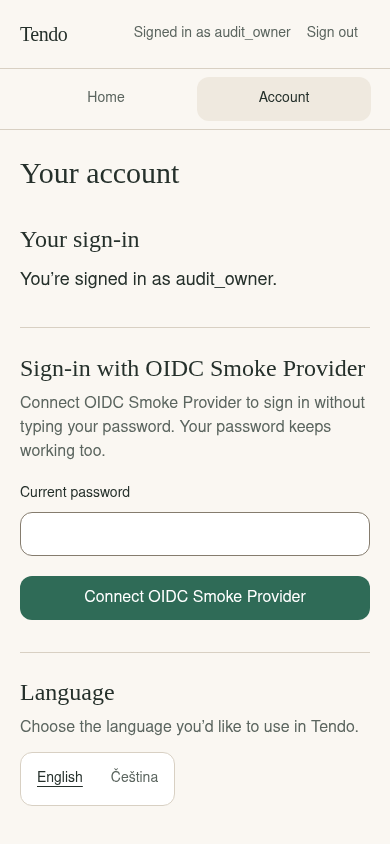
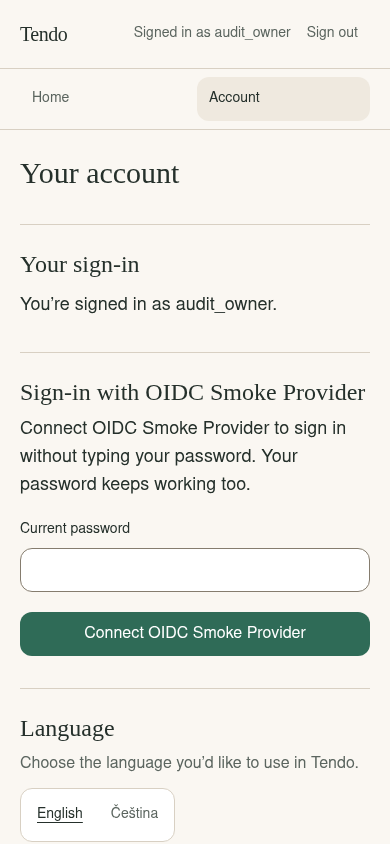
fix(v3-13): single-column sign-in panel and aligned account sections

diff --git a/frontend/src/features/auth/LoginScreen.tsx b/frontend/src/features/auth/LoginScreen.tsx
@@ -46,14 +46,14 @@ export function LoginScreen({ onSignedIn, notice }: { onSignedIn: (session: Sess
   const { loginName, setLoginName, password, setPassword, pending, error, oidcPending, oidcError } = actions;
 
   return (
-    <section className="settle mx-auto w-full max-w-3xl">
-      <div className="max-w-2xl">
+    <section className="settle mx-auto w-full max-w-md lg:mt-10">
+      <div className="text-center">
         <Heading className="font-display text-display leading-tight">{t('login.welcome')}</Heading>
         <p className="mt-3 text-lg text-muted">{t('login.subtitle')}</p>
       </div>
-      <div className="mt-8 rounded-2xl border border-line bg-raised p-5 sm:p-8">
+      <div className="mt-8 w-full rounded-2xl border border-line bg-raised p-5 sm:p-8">
         <NoticeRegion message={notice} className={notice ? 'mb-6' : undefined} />
-        <form aria-label={t('login.heading')} onSubmit={(event) => void actions.submit(event)} className="grid gap-5 sm:grid-cols-2" noValidate>
+        <form aria-label={t('login.heading')} onSubmit={(event) => void actions.submit(event)} className="grid gap-5" noValidate>
           <div className="space-y-2">
             <Label htmlFor="login">{t('login.login')}</Label>
             <Input
@@ -83,10 +83,10 @@ export function LoginScreen({ onSignedIn, notice }: { onSignedIn: (session: Sess
               aria-describedby={error ? 'login-error' : undefined}
             />
           </div>
-          <div id="login-error" role="alert" className="text-base text-danger sm:col-span-2">
+          <div id="login-error" role="alert" className="text-base text-danger">
             {error ? t(errorKeys[error]) : oidcError ? t(startErrorKeys[oidcError], { provider: provider ?? '' }) : null}
           </div>
-          <Button type="submit" disabled={pending || oidcPending} className="w-full sm:w-auto">
+          <Button type="submit" disabled={pending || oidcPending} className="w-full">
             {pending ? t('login.submitting') : t('login.submit')}
           </Button>
         </form>

diff --git a/frontend/e2e/audit/auth.ts b/frontend/e2e/audit/auth.ts
@@ -93,6 +93,10 @@ export async function captureAuth(page: Page, browser: Browser, dir: string, cap
     await signedOut.route('**/api/v1/auth/oidc', route => route.fulfill({ status: 200, contentType: 'application/json', body: JSON.stringify({ enabled: true, displayName: 'OIDC Smoke Provider' }) }));
     await signedOut.goto('/login');
     await expect(signedOut.getByRole('heading', { level: 1, name: en['login.welcome'] })).toBeVisible();
+    if (width >= 768) {
+      await expect(signedOut.locator('main section')).toHaveCSS('max-width', '448px');
+      await expect(signedOut.getByRole('form', { name: en['login.heading'] }).locator('button[type="submit"]')).toHaveCSS('width', '382px');
+    }
     await expectNoAxeViolations(signedOut, `auth-login-${width}`);
     await shot(signedOut, dir, `auth-login-en-${width}.png`, capture, width);
     if (width === 390 || width === 1440) {
@@ -172,6 +176,8 @@ export async function captureAuth(page: Page, browser: Browser, dir: string, cap
     const page = accountPage;
     await expect(page.getByRole('heading', { level: 1, name: en['account.title'] })).toBeVisible();
     await expect(page.getByLabel(en['account.oidc.password'], { exact: true })).toBeVisible();
+    await expect(page.getByRole('main').locator('section[aria-labelledby="account-identity-heading"]')).toHaveClass(/border-t/);
+    await expect(page.getByRole('main').locator('section[aria-labelledby="account-language-heading"]')).toHaveClass(/border-t/);
     await expectNoAxeViolations(page, `auth-account-unlinked-${width}`);
     await shot(page, dir, `auth-account-unlinked-en-${width}.png`, capture, width);
     await page.evaluate(() => document.documentElement.setAttribute('data-theme', 'dark'));

diff --git a/frontend/src/features/auth/AccountOidcSectionView.tsx b/frontend/src/features/auth/AccountOidcSectionView.tsx
@@ -22,19 +22,19 @@ export function AccountOidcSectionView({
         </Button>
       ) : null}
       {section.kind === 'linked' ? (
-        <section className="mt-8 border-t border-line pt-6 lg:mt-0">
-          <h2 ref={sectionHeadingRef} tabIndex={-1} className="font-display text-2xl break-words outline-none">
+        <section className="mt-8 border-t border-line pt-6">
+          <h2 ref={sectionHeadingRef} tabIndex={-1} className="font-display text-h2 break-words outline-none">
             {t('account.oidc.title', { provider: section.provider })}
           </h2>
-          <p className="mt-2 text-muted">{t('account.oidc.linked', { provider: section.provider })}</p>
+          <p className="mt-2 text-lg text-ink">{t('account.oidc.linked', { provider: section.provider })}</p>
         </section>
       ) : null}
       {section.kind === 'notLinked' ? (
-        <section className="mt-8 border-t border-line pt-6 lg:mt-0">
-          <h2 ref={sectionHeadingRef} tabIndex={-1} className="font-display text-2xl break-words outline-none">
+        <section className="mt-8 border-t border-line pt-6">
+          <h2 ref={sectionHeadingRef} tabIndex={-1} className="font-display text-h2 break-words outline-none">
             {t('account.oidc.title', { provider: section.provider })}
           </h2>
-          <p className="mt-2 text-muted">{t('account.oidc.intro', { provider: section.provider })}</p>
+          <p className="mt-2 text-lg text-ink">{t('account.oidc.intro', { provider: section.provider })}</p>
           <AccountOidcLinkForm provider={section.provider} onSignedOut={onSignedOut} onDisabled={hide} />
         </section>
       ) : null}

diff --git a/frontend/src/features/auth/AccountPreferences.tsx b/frontend/src/features/auth/AccountPreferences.tsx
@@ -4,7 +4,7 @@ import { useI18n } from '../../i18n';
 export function AccountPreferences() {
   const { t } = useI18n();
   return (
-    <section aria-labelledby="account-language-heading" className="border-t border-line pt-6 lg:mt-0">
+    <section aria-labelledby="account-language-heading" className="border-t border-line pt-6">
       <h2 id="account-language-heading" className="font-display text-h2">{t('account.preferences.title')}</h2>
       <p className="mt-2 text-muted">{t('account.preferences.body')}</p>
       <div className="mt-3 inline-flex rounded-xl border border-line bg-raised p-1">

diff --git a/frontend/src/features/auth/AccountScreen.tsx b/frontend/src/features/auth/AccountScreen.tsx
@@ -29,7 +29,7 @@ export function AccountScreen({ login, outcome, onSignedOut }: { login: string; 
         </div>
         <div className="mt-8 grid gap-8 lg:grid-cols-[minmax(0,1.2fr)_minmax(18rem,0.8fr)] lg:gap-x-12">
           <div>
-            <section aria-labelledby="account-identity-heading">
+            <section aria-labelledby="account-identity-heading" className="border-t border-line pt-6">
               <h2 id="account-identity-heading" className="font-display text-h2">{t('account.identity.title')}</h2>
               <p
                 ref={signedInRef}

diff --git a/frontend/src/app/HouseholdNavigation.tsx b/frontend/src/app/HouseholdNavigation.tsx
@@ -62,5 +62,5 @@ const LINK_RAIL = [
   FOCUS,
 ].join(' ');
 const NAV_INLINE = 'border-b border-line';
-const LIST_INLINE = 'mx-auto flex max-w-sm gap-1 px-4 py-2';
-const LINK_INLINE = `flex min-h-11 items-center justify-center rounded-xl px-3 text-center text-small transition-colors ${FOCUS}`;
+const LIST_INLINE = 'mx-0 flex w-full gap-1 px-5 py-2 sm:px-8';
+const LINK_INLINE = `flex min-h-11 items-center justify-start rounded-xl px-3 text-left text-small transition-colors ${FOCUS}`;

diff --git a/frontend/src/features/auth/LoginProviderOptions.tsx b/frontend/src/features/auth/LoginProviderOptions.tsx
@@ -58,7 +58,7 @@ export function LoginProviderOptions({
         variant="quiet"
         disabled={passwordPending || oidcPending}
         aria-describedby={oidcError ? 'login-error' : undefined}
-        className="mt-5 w-full border border-line sm:w-auto"
+        className="mt-5 w-full border border-line"
         onClick={signIn}
       >
         {oidcPending ? t('login.oidc.submitting', { provider }) : t('login.oidc.submit', { provider })}

diff --git a/docs/design/v3-auth.md b/docs/design/v3-auth.md
@@ -13,7 +13,7 @@
 
 ## Screenshot critique
 
-Before evidence was regenerated from the detached `a9159e3` worktree; after evidence is from this branch. The indexed captures show the old mixed onboarding field hierarchy/raw IANA timezone, narrow login at desktop, wrong-password field coloring, and account language pointer. After captures include the requested widths for setup/login, representative phone and desktop Account states, callback/provider/service errors, and dark-token readiness. Visual review of the actual PNGs: the signin panel has clear priority, preserves a calm 1440px measure without a fake marketing column, and fits at 320px; long recovery guidance is dense but remains readable. Onboarding at 320px continues below the fold (expected for this multi-field first-run flow); its prose and field sequence remain legible. Timezone city text is derived from the IANA identifier and is not localized (for example, Prague stays “Prague” in Czech); the timezone name follows the selected locale. Account at 1440px uses a modest two-column layout; linked-provider states leave a quiet lower area. The household-less account retains the small inline navigation bar and aligns its content with the shared shell rather than reserving an empty rail. Error screens remain sparse by design. Account/OIDC and failure captures are synthetic browser-stubbed states, not real provider interactions; forced-dark captures check token readiness only. The updated 1440px login capture shows a narrow, vertically composed form instead of the previous split-field card; the 320px onboarding and 390px Czech login/account captures were also regenerated and reviewed.
+Before evidence was regenerated from the detached `a9159e3` worktree; after evidence is from this branch. The indexed captures show the old mixed onboarding field hierarchy/raw IANA timezone, narrow login at desktop, wrong-password field coloring, and account language pointer. After captures include the requested widths for setup/login, representative phone and desktop Account states, callback/provider/service errors, and dark-token readiness. Visual review of the actual PNGs: the signin panel has clear priority, preserves a calm 1440px measure without a fake marketing column, and fits at 320px; long recovery guidance is dense but remains readable. Onboarding at 320px continues below the fold (expected for this multi-field first-run flow); its prose and field sequence remain legible. Timezone city text is derived from the IANA identifier and is not localized (for example, Prague stays “Prague” in Czech); the timezone name follows the selected locale. Account at 1440px uses a modest two-column layout; linked-provider states leave a quiet lower area. The household-less account retains the small inline navigation bar and aligns its content with the shared shell rather than reserving an empty rail; the inline nav starts at the same shell gutter as the header and content. Account section dividers now align across the columns, with a consistent heading/body pattern. Error screens remain sparse by design. Account/OIDC and failure captures are synthetic browser-stubbed states, not real provider interactions; forced-dark captures check token readiness only. The updated 1440px login capture shows a narrow, vertically composed form instead of the previous split-field card; the 320px onboarding and 390px Czech login/account captures were also regenerated and reviewed.
 
 ## Accessibility and behavior
 

diff --git a/docs/design/v3-auth/CAPTURES.md b/docs/design/v3-auth/CAPTURES.md
@@ -31,7 +31,7 @@ The prior exact commit is `a9159e3`; before captures were regenerated from detac
 | `after/auth-login-rate-limited-en-390.png`, `after/auth-login-session-ended-en-390.png` | Rate limit and session ended | 390/en | Messages are distinct and actionable; session notice fits above fields. |
 | `after/auth-login-oidc-available-en-390.png`, `after/auth-login-oidc-provider-error-en-390.png`, `after/auth-login-oidc-outcome-en-390.png` | OIDC available, retryable outage, callback notice | 390/en | Provider outage stays quiet and password sign-in remains primary. The callback notice is generic and fragment is scrubbed. |
 | `after/auth-login-forced-dark-en-{390,1440}.png` | Dark-token readiness | 390/1440/en | Surfaces, inputs and actions switch to dark tokens; readiness only, not saved preference or OS-following behavior. |
-| `after/auth-account-unlinked-en-{390,1440}.png`, `after/auth-account-linked-en-{390,1440}.png`, `after/auth-account-link-error-en-390.png` | Account/provider states | 390/1440/en | Identity and language preferences are clearly grouped; no unbuilt Appearance promise remains. The household-less 1440px account uses the small inline nav and shared content alignment, not an empty rail. Link error is attached to current-password flow. |
+| `after/auth-account-unlinked-en-{390,1440}.png`, `after/auth-account-linked-en-{390,1440}.png`, `after/auth-account-link-error-en-390.png` | Account/provider states | 390/1440/en | Identity and language preferences are clearly grouped; no unbuilt Appearance promise remains. The household-less 1440px account uses the small inline nav and shared content alignment, not an empty rail. The section dividers now align across columns, and identity, provider, and language follow matching heading/body rhythm. Link error is attached to current-password flow. |
 | `after/auth-account-cs-{390,1440}.png` | Account | 390/1440/cs | Czech labels wrap without clipping; the desktop layout remains calm but lower content is sparse when provider is linked. |
 | `after/auth-account-forced-dark-en-{390,1440}.png` | Dark-token readiness | 390/1440/en | Account surfaces and controls use dark tokens; V3-14 preference behavior remains untested. |
 | `after/auth-boot-loading-en-390.png`, `after/auth-boot-unavailable-en-390.png` | Boot | 390/en | Loading is deliberately quiet; unavailable provides a retry. |
